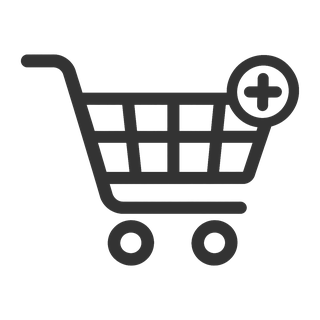
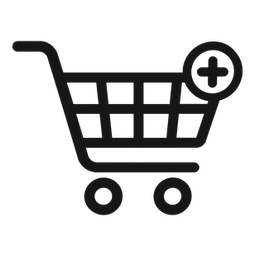
Add files via upload

Changed region(s): [[0.0312, 0.1562, 0.9688, 0.8438]]

diff --git a/cart-icon.css b/cart-icon.css
@@ -42,3 +42,41 @@
   #cart-floating::before { width:31px;height:31px; }
   .cart-detail-btn::before { width:30px;height:30px;flex-basis:30px; }
 }
+
+
+/* Updated bigger/darker cart icons */
+.add-icon, .drawer-cart-icon, .cart-btn-icon, .cart-icon-img, .icon-cart-img {
+  width: 100% !important;
+  height: 100% !important;
+  object-fit: contain !important;
+  display: block;
+}
+.circle-icon, .btn-circle-icon, .cart-circle, .icon-circle {
+  width: 2.35rem !important;
+  height: 2.35rem !important;
+  border-radius: 999px !important;
+  display: inline-flex !important;
+  align-items: center !important;
+  justify-content: center !important;
+  overflow: hidden !important;
+  background: rgba(255,255,255,.9) !important;
+}
+.add-icon-wrap, .cart-icon-wrap, .drawer-cart-icon-wrap {
+  width: 1.7rem !important;
+  height: 1.7rem !important;
+  display:inline-flex !important;
+  align-items:center !important;
+  justify-content:center !important;
+}
+/* direct image targets used in our template */
+img[src$="cart-icon.png"], img[src$="cart-icon-add.png"] {
+  width: 1.7rem !important;
+  height: 1.7rem !important;
+  object-fit: contain !important;
+  image-rendering: auto;
+}
+/* if button uses fixed size icon box */
+button .icon-wrap, button .btn-icon-wrap, button .cart-img-wrap {
+  width: 1.8rem !important;
+  height: 1.8rem !important;
+}
